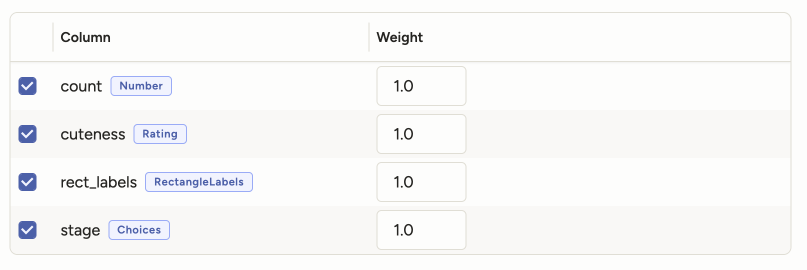
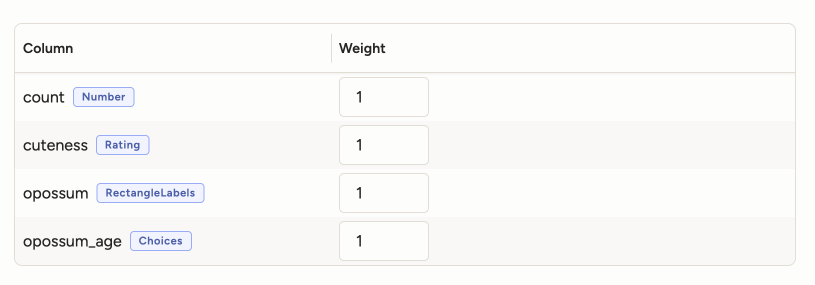
docs: Fixes to the agreement page

diff --git a/docs/source/guide/stats.md b/docs/source/guide/stats.md
@@ -53,7 +53,9 @@ Label Studio aggregates per-control-tag scores into a single task-level score.
 
 By default, this is calculated as the mean of all control-tag scores. This is what appears in the main **Agreement** column when you do not filter by control tag.
 
-You can customize how overall agreement is calculated by setting the **weight** of different control tags when calculating agreement. This ensures that a critical control tag is has more bearing on the overall agreement score than a less important control tag. See [Configure weight for the overall agreement](#Configure-weight-for-the-overall-agreement).
+You can customize how overall agreement is calculated by setting the **weight** of different control tags when calculating agreement. 
+
+This ensures that a critical control tag is has more bearing on the overall agreement score than a less important control tag. See [Configure weight for the overall agreement](#Configure-weight-for-the-overall-agreement).
 
 ## Categorical vs. non-categorical control tags
 
@@ -72,7 +74,7 @@ Examples include:
 
 Since categorical values are discrete, the typical metric is **Exact Match** -- the two values either match (score = `1.0`) or they don't (score = `0.0`). 
 
-However, tags such as **Rating** or **Number** can also use **Numeric Difference with Threshold**, where you define how much numeric deviation is tolerable (e.g., a threshold of `0` means only identical ratings count as a match).
+However, tags such as **Rating** or **Number** can also use [**Numeric Difference with Threshold**](agreement_metrics#Numeric-Difference), where you define how much numeric deviation is tolerable (e.g., a threshold of `0` means only identical ratings count as a match).
 
 Categorical comparisons inherently produce binary scores (`0` or `1`). This means they work with both agreement methodologies:
 
@@ -93,8 +95,8 @@ For example:
 
 Because two annotators rarely draw identical regions, the system uses continuous similarity metrics that measure degree of overlap. For example:
 
-- **IoU (Intersection over Union)** for bounding boxes and polygons. Returns a float between `0.0` (no overlap) and `1.0` (perfect overlap)
-- **Span Overlap** for text spans -- measures how much two highlighted text regions overlap
+- [**IoU (Intersection over Union)**](agreement_metrics#Intersection-over-Union-for-bounding-boxes) for bounding boxes and polygons. Returns a float between `0.0` (no overlap) and `1.0` (perfect overlap)
+- [**Span Overlap**](agreement_metrics#Span-Overlap) for text spans. Measures how much two highlighted text regions overlap
 
 See [Non-categorical examples](#Non-categorical-examples) for an example of how agreement is calculated for non-categorical control tags.
 
@@ -153,23 +155,23 @@ Even though none of the annotators agreed with each other, agreement is still `1
 
 * *How many annotators agree?* 
 
-  Given three annotators, 1/3 selected each choice.  
+  Given three annotators, 1/3 selected each choice: `1/3 = 33.33%`  
 
 * *How many annotators chose the most common answer?*
 
   In this case, A, B, and C were each chosen once, and are therefore equally common.
 
-  So 1 out of 3 annotators chose the most common answer (`1/3 = 33.33`).
+  So 1 out of 3 annotators chose the most common answer: `1/3 = 33.33%`
 
 If you were to switch to Pairwise methodology, the same task would have an agreement score of `0%`, as Pairwise is more focused on how much agreement there is between pairs of annotators.  
 
-#### Binary scoring
+#### Binary scoring in Consensus
 
 Consensus measures agreement with binary scores -- each pair of annotators either matches (`1`) or does not match (`0`). 
 
 * For categorical tags like **Choices** or **Rating**, this binary outcome happens naturally: two annotators either selected the same value or they didn't. 
 
-* For non-categorical tags like bounding boxes or text spans, the raw comparison produces a continuous score (e.g., IoU of 0.82). Therefore for non-categorical tags, you must define a threshold to determine whether the continuous score is high enough to be considered a match, allowing Label Studio to convert it into a binary decision. 
+* For non-categorical tags like bounding boxes or text spans, the raw comparison produces a continuous score (e.g., IoU of `0.82`). Therefore for non-categorical tags, you must define a threshold to determine whether the continuous score is high enough to be considered a match, allowing Label Studio to convert it into a binary decision. 
 
   At or above the threshold counts as a match (`1`), below it does not (`0`). 
 
@@ -217,7 +219,7 @@ This means Pairwise preserves the full granularity of non-categorical comparison
 | **Sensitivity to outliers** | High -- one disagreeing annotator creates multiple low-scoring pairs, pulling the average down | Low -- one disagreeing annotator is outvoted by the majority |
 | **3 annotators, 2 agree (categorical)** | 33% (only 1 of 3 pairs match) | 66% (majority agreement recognized) |
 | **3 annotators, all agree** | 100% | 100% |
-| **3 annotators, none agree** | 0% | 0% |
+| **3 annotators, none agree** | 0% | 33% (1 out of 3 annotators chose the most common answer) |
 | **Best suited for** | Projects with 2 annotators per task, or when you want granular continuous scores | Projects with 3+ annotators per task, or when majority agreement matters most |
 
 #### When to select Pairwise vs. Consensus
@@ -247,7 +249,7 @@ In extremely simple terms:
 
 * The Consensus measurement is a good proxy for label stability and task convergence.
 
-* Requires thresholds for non-categorical control tags (e.g. bounding boxes and text spans). Thresholds are how you define what "close enough" means. See [Non-categorical examples](#Non-categorical-examples) for an of consensus calculation with a threshold.
+* Requires thresholds for non-categorical control tags. Thresholds are how you define what "close enough" means. See [Non-categorical examples](#Non-categorical-examples) for an of consensus calculation with a threshold.
 
 
 ### Examples 
@@ -338,7 +340,7 @@ All 3 annotators chose the most common answer (`3/3 = 1.0`).
 
 #### Non-categorical examples
 
-[Non-categorical control tags](#Non-categorical-control-tags) are control tags have continuous values that are not as simple to quantify as "match" or "no match". For example, **RectangleLabels**, **PolygonLabels**, **Labels**, **Labels**.
+[Non-categorical control tags](#Non-categorical-control-tags) are control tags have continuous values that are not as simple to quantify as "match" or "no match". For example, **RectangleLabels**, **PolygonLabels**, and **Labels**.
 
 ##### Bounding boxes
 
@@ -374,7 +376,7 @@ If all three annotators draw their boxes in completely different areas of the im
 
 `(0 + 0 + 0) / 3 = 0`
 
-Now the annotators adjust their boxes so that there is some overlap between them. In this case, the agreement is `72%`:
+Now the annotators adjust their boxes so that there is some overlap between them. In this case, the agreement is `40.67%`:
 
 - Annotators 1 vs Annotator 2 (IoU = `.53`)
 - Annotators 1 vs Annotator 3 (IoU = `.24`)
